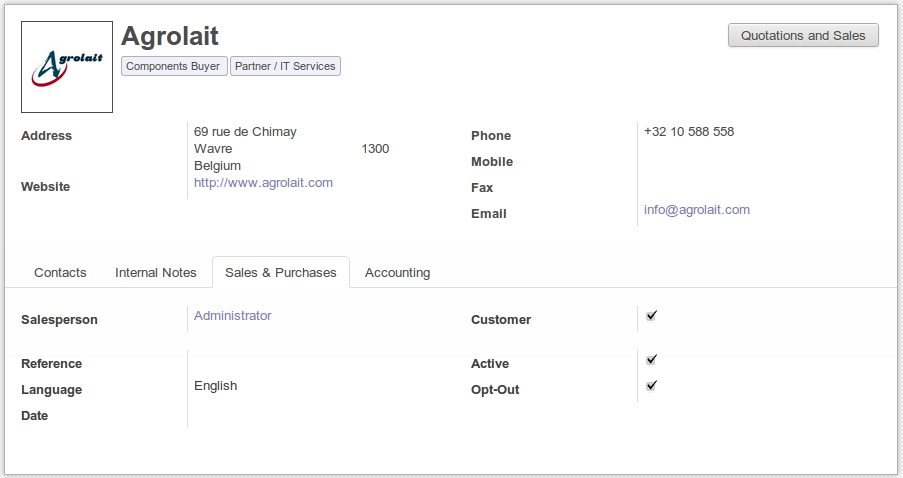
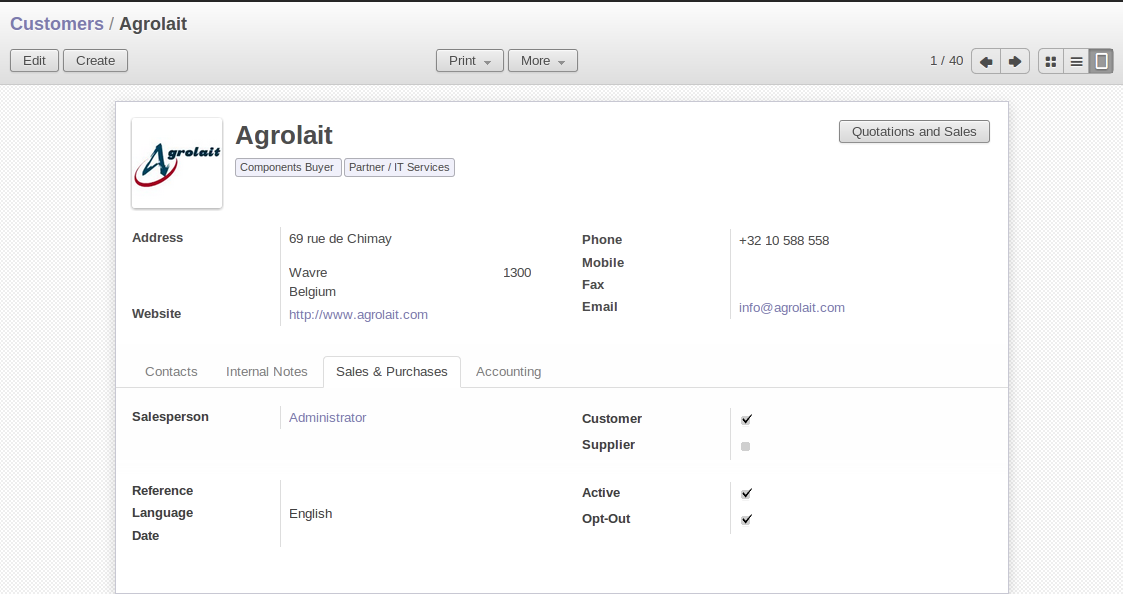
[IMP]:Modify contacts.rst and images as per 7.0

diff --git a/2/3_CRM_Contacts/contacts.rst b/2/3_CRM_Contacts/contacts.rst
@@ -33,9 +33,11 @@ The partner form is composed of several tabs.
 
 * the :guilabel:`Contact` tab contains information about different contacts of that partner (*company*).
 
+* the :guilabel:`Internal Notes` tab is an area for free text notes.
+
 * the :guilabel:`Sales & Purchases` tab contains information such as the default salesperson and sales team, whether the partner (*company*) is a \ ``Customer`` \ and/or a \ ``Supplier`` \ and its primary language.
 
-* the :menuselection:`Internal Notes` tab is an area for free text notes.
+* the :guilabel:`Accouting` tab contains information about Fiscal Position,Account Payable/Receivable,Credit Limit,etc..
 
 .. figure::  images/sales_purchases_tab.png
    :scale: 75
@@ -126,7 +128,7 @@ Performing Actions on Customers
    single: opportunity
    single: reminder
 
-At the right side of the `Customers` form view, you will find group of buttons(\ ``Schedule a Meeting``\, \ ``Purchase Orders``\, \ ``Supplier Invoices``\, \ ``Quotations and Sales``\  etc) are available. You can perform actions(by clicking on the ``More`` at the top) and print reports(by clicking on the ``Print`` at the top) both from List and from Form view, List view allowing you to do actions for several partners at the same time.
+At the right side of the `Customers` form view, you will find button(\ ``Quotations and Sales``\). You can perform actions(by clicking on the ``More`` at the top) and print reports(by clicking on the ``Print`` at the top) both from List and from Form view, List view allowing you to do actions for several partners at the same time.
 You can also add an attachment.
 
 .. tip:: Actions
@@ -165,7 +167,7 @@ Categorizing your Partners
 .. index::
    pair: partner; category
 
-OpenERP uses categories to organize all of its partners according to their relationship with your company (partner, prospect, supplier, and so on). Each partner may be attached to several categories. To open the list of available partner categories, use the menu :menuselection:`Sales --> Configuration --> Address Book --> Partner Categories`.
+OpenERP uses categories to organize all of its partners according to their relationship with your company (partner, prospect, supplier, and so on). Each partner may be attached to several categories. To open the list of available partner categories, use the menu :menuselection:`Sales --> Configuration --> Address Book --> Partner Tags`.
 
 .. figure::  images/crm_partner_category_big.png
    :scale: 75
@@ -175,7 +177,7 @@ OpenERP uses categories to organize all of its partners according to their relat
 
 .. note:: Categories
 
-        To create a new category, go to the menu :menuselection:`Sales --> Configuration --> Address Book --> Partner Categories` and click the `New` button.
+        To create a new category, go to the menu :menuselection:`Sales --> Configuration --> Address Book --> Partner Tags` and click the `Create` button.
 
 Because categories can be organized according to a tree structure, you can apply an action at any level of
 the structure: a marketing promotion activity, for example, can be applied either to all customers,
